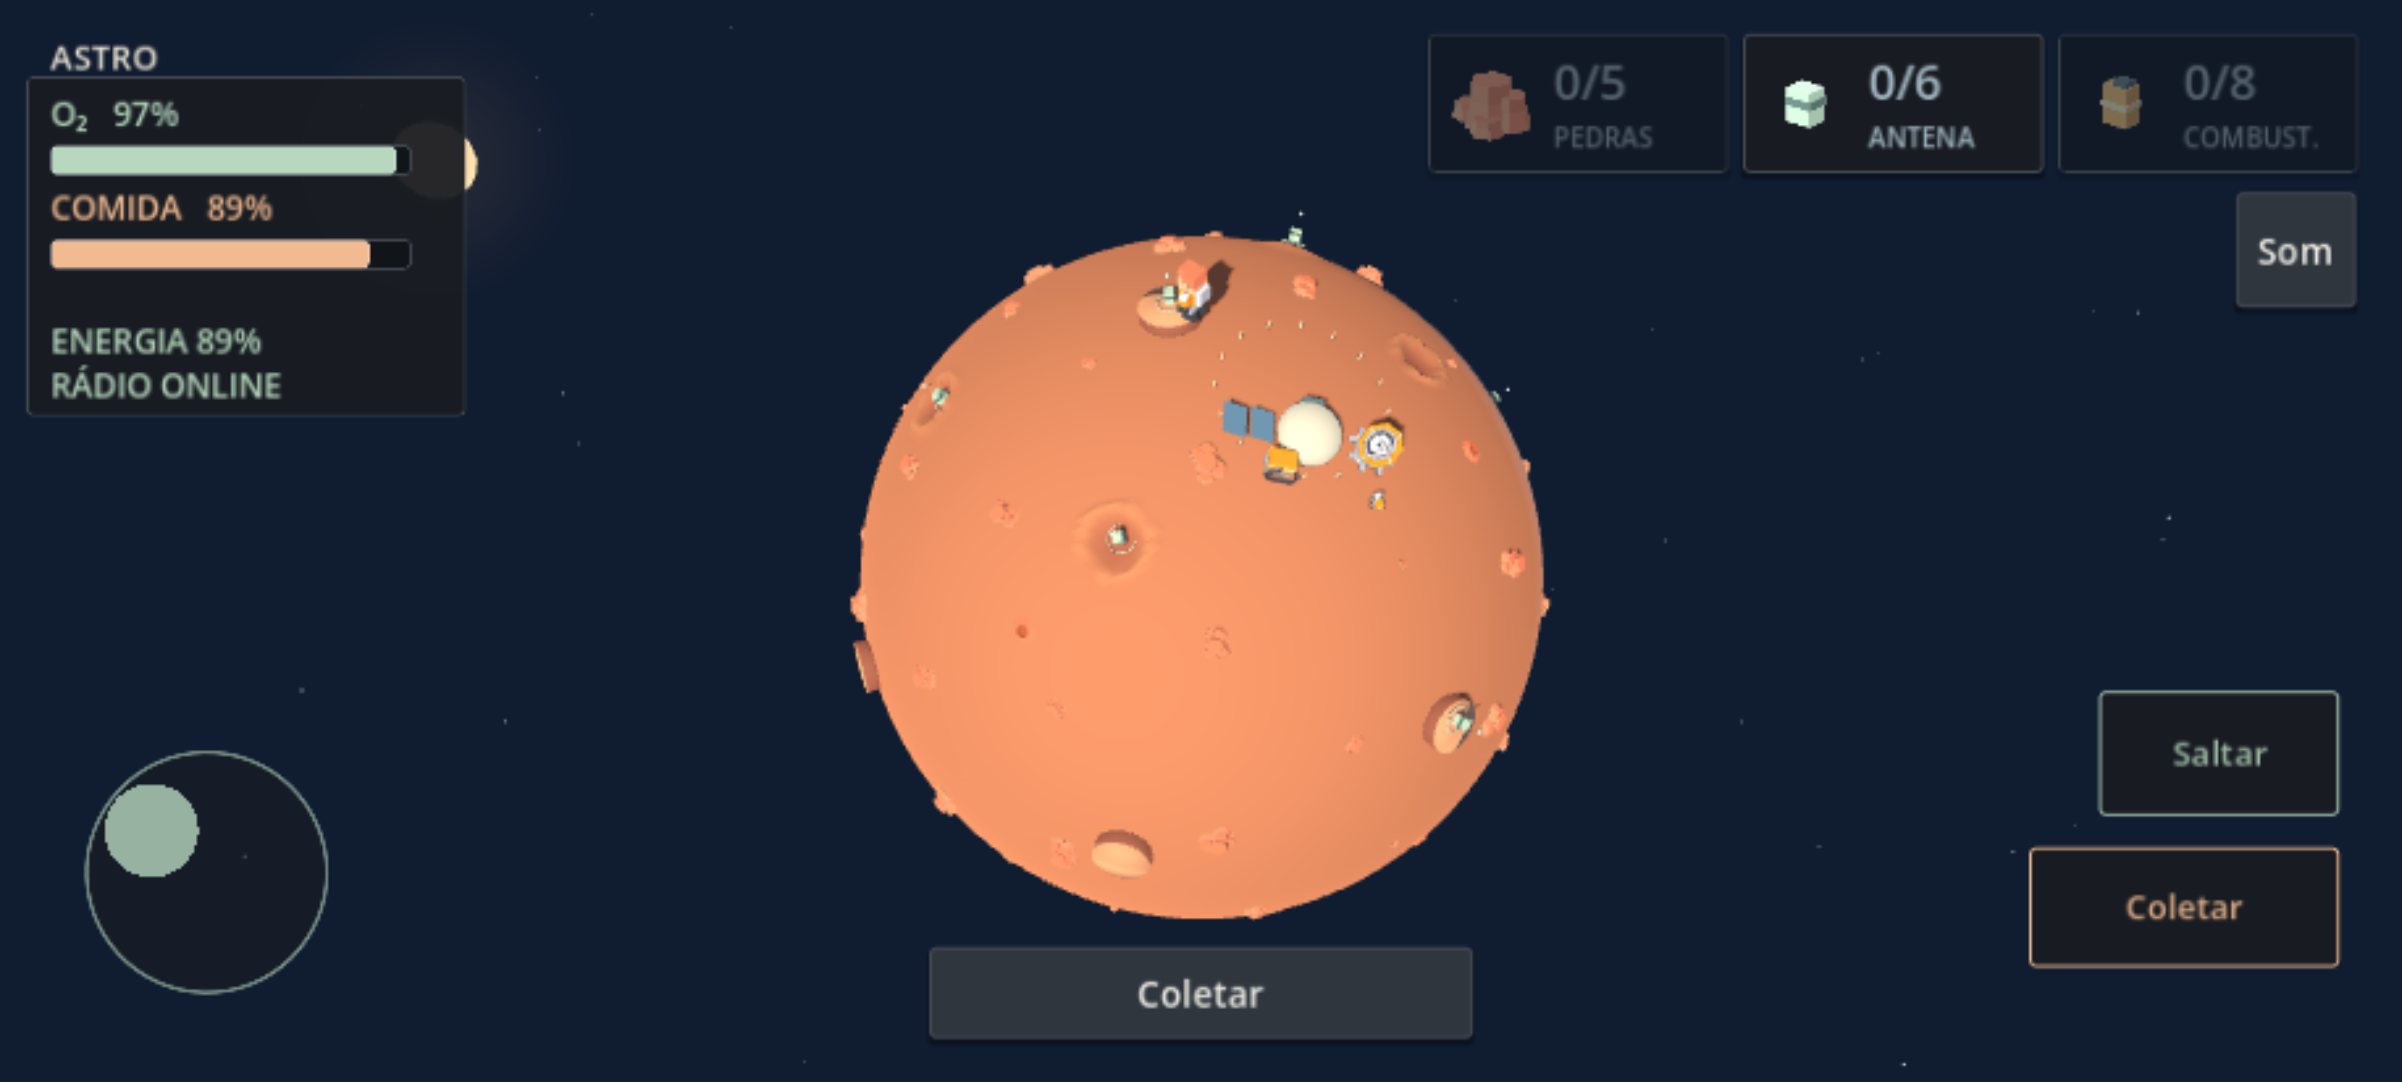
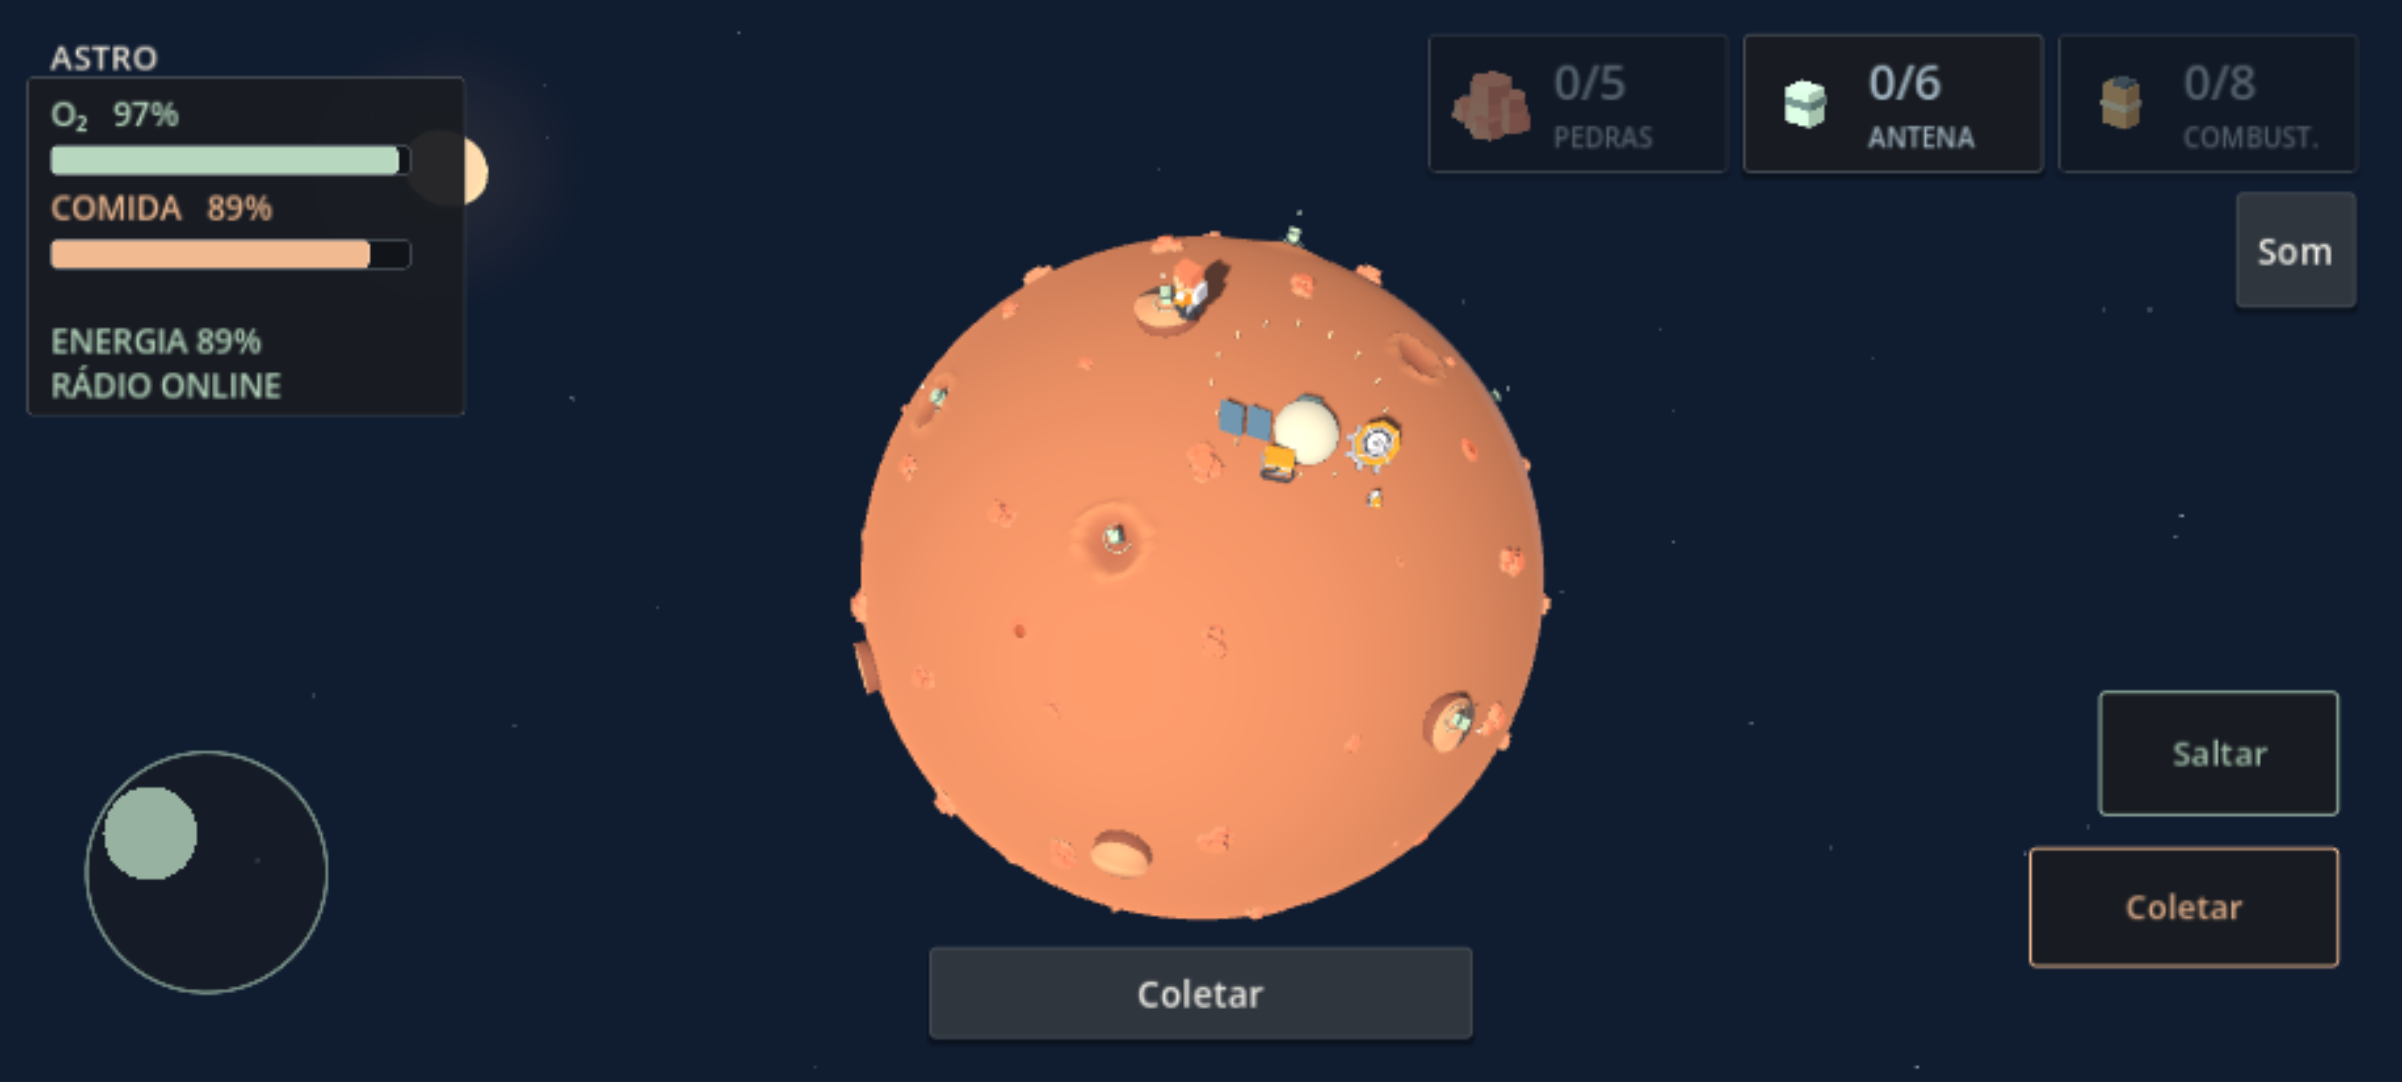
Return victory to menu, lock stabilized antenna and refine radiation warning and exposure

diff --git a/README.md b/README.md
@@ -15,7 +15,7 @@ No Windows, abra **Jogar.cmd**. O iniciador usa o Godot instalado na pasta Downl
 
 O menu abre com arte marciana 2D e composição central, **Começar** em bege alaranjado e uma engrenagem, sem painel ou frase ao redor dos botões. A capa anterior permanece em `assets/ui/menu-mars.png`; a atual é `assets/ui/menu-mars-2d.png`. As configurações oferecem volumes independentes de geral, músicas, interações e avisos, salvos entre sessões. Space Galaxy toca na exploração/menu; Space Ship toca dentro da base, com transição suave. O ganho da música externa foi reduzido em cerca de 6 dB, e o da base em cerca de 2,4 dB; durante a radiação há redução adicional para destacar o ambiente sonoro.
 
-Começar apresenta um vídeo original de 22 segundos com trilha e legendas. Pular, Espaço, Enter ou Esc abrem o guia da missão. O guia ocupa cerca de 70% da tela e tem duas páginas: **Próximo** e **Começar**. Recursos e eventos ficam suspensos até Começar. Reiniciar após derrota retorna ao menu e não repete o vídeo na mesma sessão. Embarcar inicia uma cutscene de decolagem de 14 segundos, também pulável, antes da tela de vitória.
+Começar apresenta um vídeo original de 22 segundos com trilha e legendas. Pular, Espaço, Enter ou Esc abrem o guia da missão. O guia ocupa cerca de 70% da tela e tem duas páginas: **Próximo** e **Começar**. Recursos e eventos ficam suspensos até Começar. Reiniciar após derrota retorna ao menu e não repete o vídeo na mesma sessão. Embarcar inicia uma cutscene de decolagem de 14 segundos, também pulável; ao terminar ou pular, o jogo retorna automaticamente ao menu principal, pronto para uma nova missão.
 
 ## Um passeio completo
 
@@ -26,7 +26,7 @@ Dentro do raio de recuperação de oxigênio, use **Entrar na base**. O interior
 A superfície tem crateras rasas, relevos suaves e plataformas de 0,38–0,44 m. A borda das plataformas bloqueia a caminhada; pule para subir, pouse no topo e caminhe para fora para cair de volta à superfície. Uma peça de antena fica na plataforma de prática perto da base. A altura também conta para alcançar itens. No celular, segure o joystick com um dedo e toque **Saltar** com outro. Diagonais têm velocidade normalizada; soltar, perder foco ou girar a tela cancela o movimento. Dentro da base, o botão de salto fica inativo.
 
 - **Energia:** conecte três cabos com letras iguais. O reparo restaura 100% e reinicia o ciclo de **63,75 segundos**. Em 30%, já é possível reparar preventivamente. **Sem energia, a produção de O₂ para**, inclusive dentro da base, e a reserva do traje continua caindo. A partida começa com energia ativa.
-- **Comunicação:** o rádio de avisos começa ativo e cai após **85 segundos**. Para restaurar a antena e enviar a posição ao resgate, reúna seis peças e sobreponha as ondas por três segundos. Cada queda muda a sintonia. Depois de chamar a nave, não há novas quedas durante a aproximação.
+- **Comunicação:** o rádio de avisos começa ativo e cai após **85 segundos**. Para restaurar a antena e enviar a posição ao resgate, reúna seis peças e sobreponha as ondas por três segundos. O painel fecha sozinho ao concluir, e a estação fica sem interação enquanto o sinal permanecer estabilizado. Uma nova queda reabilita a tarefa e muda a sintonia. Depois de chamar a nave, não há novas quedas durante a aproximação.
 
 Dentro da base, o O₂ se recupera **se houver energia** e não há dano solar; o alimento continua sendo consumido. A janela fica iluminada durante o aviso e a névoa, apagando quando é seguro sair. **A sobrevivência continua durante minigames, configurações e orientação vertical**; apenas os controles ficam indisponíveis. Falta de energia interrompe a sintonia da antena. O guia anterior ao início continua sem consumir recursos.
 
@@ -36,7 +36,7 @@ Oxigênio e alimento exigem viagens de reabastecimento: a base com energia repõ
 
 As reservas aumentaram 5%: O₂ dura cerca de **31 segundos** e comida cerca de **58 segundos**. Internamente vão até 105 unidades; a interface continua mostrando 100% quando cheias. Barras ficam vermelhas e pulsam quando baixas; avisos locais na tela aparecem em 25% e 12%, mesmo sem rádio, e voltam a funcionar após reabastecer. Depois de zerar, há dois segundos de tolerância. A base energizada repõe O₂ em aproximadamente 4,2 segundos.
 
-Após 100 segundos, o céu clareia durante dez segundos de aviso, seguidos de uma névoa que cobre o planeta inteiro por 12 segundos. A antena conectada antecipa a previsão em 20 segundos e mostra a primeira instrução de abrigo. Uma explosão com eco marca o início da radiação, seguida de ruído contínuo até o fim, também audível dentro do abrigo. O Sol visual é maior e fica a 180 unidades do centro do planeta; a lua ficou 25% menor. **Só o interior protege**. Três segundos de exposição contínua causam derrota; entrar no abrigo zera a exposição. A borda da tela indica o perigo crescente.
+Após 100 segundos, o céu clareia durante dez segundos de aviso, seguidos de uma névoa que cobre o planeta inteiro por 12 segundos. A antena conectada avisa pelo rádio somente **4 segundos antes da névoa**, com prioridade sobre transmissões em andamento. Uma explosão com eco marca o início da radiação, seguida de ruído contínuo até o fim, também audível dentro do abrigo. O Sol visual é maior e fica a 180 unidades do centro do planeta; a lua ficou 25% menor. **Só o interior protege**. Três segundos de exposição contínua causam derrota; entrar no abrigo zera a exposição. Fora dele, a imagem recebe desfoque sutil e bordas alaranjadas que avançam com a exposição, preservando a nitidez da interface.
 
 O₂ e alimento ficam progressivamente vermelhos e pulsam suavemente quando baixos. Energia também pulsa em vermelho aos 30% ou menos. Um aviso de dois tons, diferente do sol, soa em 25% e 12%; na faixa crítica, pode repetir a cada oito segundos. Energia e desconexão têm sons próprios. Mensagens aparecem a 70 caracteres por segundo com digitação discreta. Coletas tocam notas ascendentes; derrota toca um acorde descendente. Os efeitos são sintetizados originalmente; as duas músicas de ambiente foram fornecidas pelo usuário e estão identificadas em [assets/audio/README.md](assets/audio/README.md). A arte do menu e seu prompt estão em [docs/MENU_ART.md](docs/MENU_ART.md).
 

diff --git a/docs/FEATURE_VALIDATION.md b/docs/FEATURE_VALIDATION.md
@@ -29,6 +29,8 @@ Importação e exportação Web concluídas sem erros. `tests/web_smoke.cjs` abr
 
 ## Evidências e limites
 
+Fluxo de missão: `tests/mission_flow.gd` verifica fechamento automático da antena, bloqueio da interação enquanto estável e reativação após falha. Confere que o rádio permanece silencioso antes da janela de 4 s, interrompe outra transmissão no momento correto, não repete o aviso e respeita conexão offline. Também verifica que o efeito de exposição cresce e desaparece dentro do abrigo. `tests/menu_return.gd` acompanha a troca real da cena após a cutscene final e valida menu visível, controles inativos e reservas/inventário reiniciados. O shader de exposição foi inspecionado em `solar-preview.png`; afeta a imagem do mundo, deixando o HUD nítido.
+
 Ajuste de sobrevivência contínua: `tests/survival_tuning.gd` cobre menu sem painel/frase, botão de início quente, ganhos musicais reduzidos, Sol maior a 180 unidades/lua menor, explosão e loop solar audíveis nos dois ambientes até o fim do evento, avisos de O₂/comida sem rádio e ausência de pausa por Esc. Os testes de minigame/configurações agora exigem que comida e temporizadores continuem avançando. O guia anterior ao início permanece congelado. `critical-preview.png` mostra o aviso local combinado de recursos.
 
 Correção de áudio e salto: `tests/terrain_mobile.gd` verifica bloqueio lateral das plataformas, salto com joystick e segundo dedo, pouso, queda ao sair da borda, alcance vertical de coleta, profundidade das crateras, oito direções com velocidade normalizada e cancelamento ao perder foco. Malha e movimentação consultam o mesmo campo de altura em `scripts/planet_terrain.gd`.
@@ -39,7 +41,7 @@ O menu 2D centralizado e seus botões maiores foram inspecionados em desktop e p
 
 Menu e descoberta: `tests/radio_resources.gd` verifica 6 peças de antena antes da transmissão, 5 pedras/8 combustíveis depois dela, bloqueio de coleta sem sinal, itens ocultos após transição interior/exterior e preservação do inventário. Também cobre volumes independentes, zero silencioso, sobrevivência avançando nas configurações e troca entre os dois MP3 em loop. O teste web abre a engrenagem, ajusta música e percorre o início em desktop/toque. No desktop, recarrega a página e confere visualmente o ganho preservado em `web-desktop-settings-restored.png`. `menu-preview.png` e `settings-preview.png` mostram a nova interface; a origem e o prompt da arte estão em `MENU_ART.md`.
 
-A atualização de decolagem cobre névoa planetária de 12 s, morte após 3 s de exposição contínua, proteção e reinício da exposição dentro do abrigo, pulso de energia baixa, sons distintos de coleta/derrota e escrita progressiva. A automação percorre as duas páginas do guia com a simulação congelada e verifica vídeo final antes da tela de vitória. Capturas `solar-preview.png`, `briefing2-preview.png`, `outro-preview.png` e `outro-storyboard.png` registram os novos visuais. O teste web percorre ambos os slides em desktop e toque emulado.
+A atualização de decolagem cobre névoa planetária de 12 s, morte após 3 s de exposição contínua, proteção e reinício da exposição dentro do abrigo, pulso de energia baixa, sons distintos de coleta/derrota e escrita progressiva. A automação percorre as duas páginas do guia com a simulação congelada e verifica vídeo final antes do retorno automático ao menu. Capturas `solar-preview.png`, `briefing2-preview.png`, `outro-preview.png` e `outro-storyboard.png` registram os novos visuais. O teste web percorre ambos os slides em desktop e toque emulado.
 
 Capturas `web-desktop-*.png` e `web-mobile-*.png` documentam menu, vídeo, exploração, base, painel e movimento. `intro-storyboard.png` mostra um quadro da cutscene.
 

diff --git a/docs/CINEMATICS.md b/docs/CINEMATICS.md
@@ -21,4 +21,4 @@ O gerador também grava `docs/intro-storyboard.png`. Não é necessário regener
 
 `assets/cinematics/outro.ogv`: vídeo original de 14 segundos, 960×540 a 24 fps, no mesmo estilo ilustrado da abertura. Mostra ignição, subida e Marte ficando para trás, com trilha sintetizada e ruído de motor originais. Não utiliza mídia externa. Gere com `python tools/generate_outro.py --ffmpeg /caminho/ffmpeg`.
 
-Embarcar congela a partida e inicia o vídeo. Finalizar ou pular abre a tela de vitória, uma única vez. As opções de pular são iguais às da introdução. O guia inicial tem duas páginas; apenas **Começar**, na segunda, inicia recursos e eventos.
+Embarcar congela a partida e inicia o vídeo. Finalizar ou pular recarrega a cena e retorna automaticamente ao menu principal, com missão nova e volumes preservados. As opções de pular são iguais às da introdução. O guia inicial tem duas páginas; apenas **Começar**, na segunda, inicia recursos e eventos.
